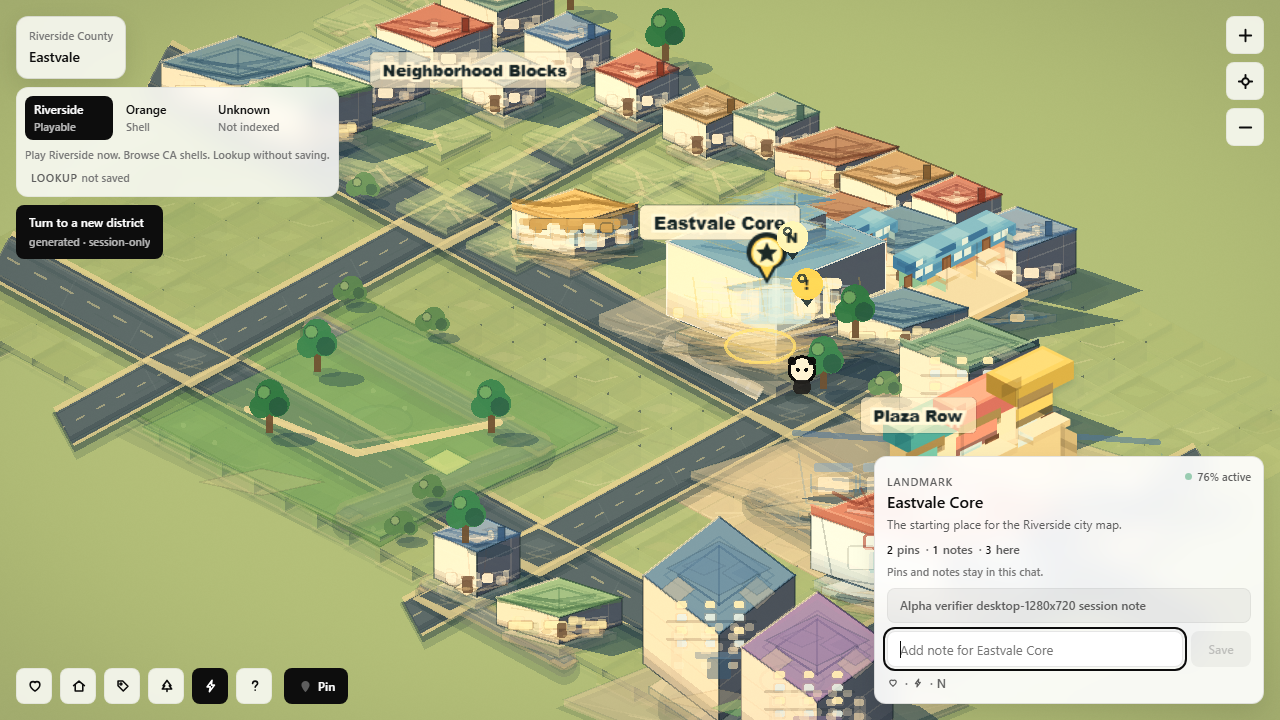
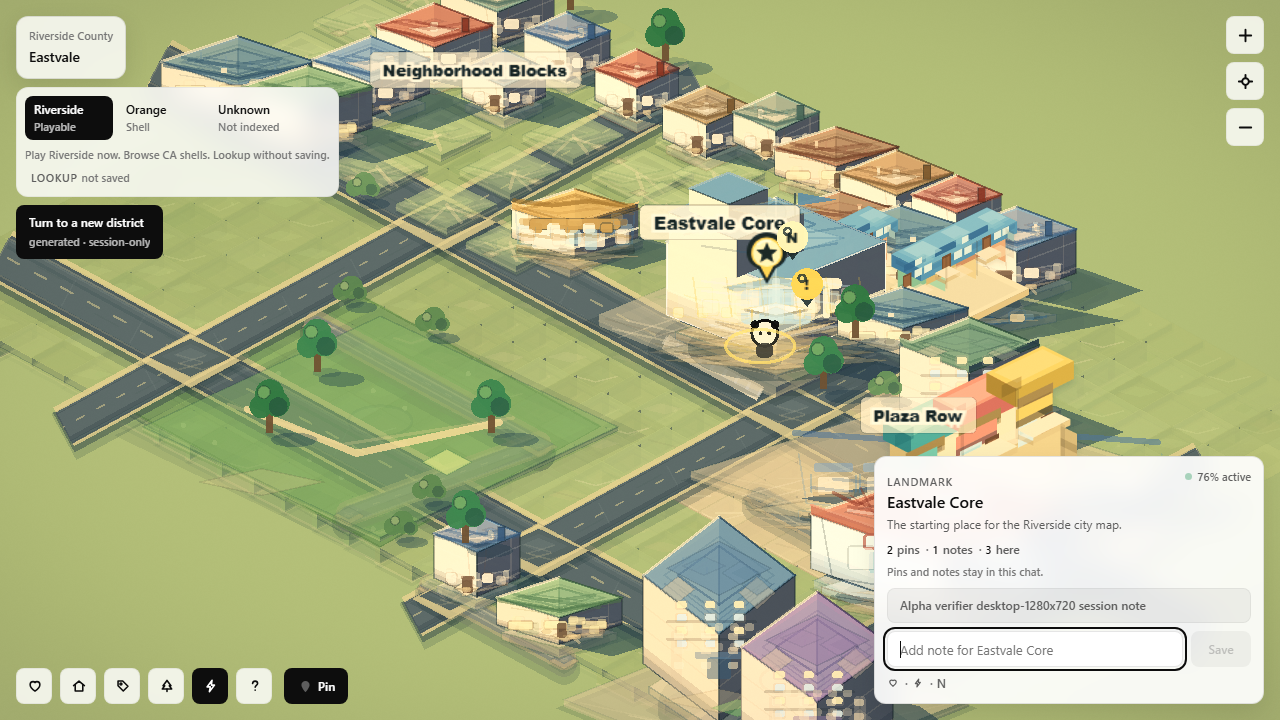
docs(0.53e): Entry 083 + STATE — hero silhouette finish run verified
Desktop 8/10, mobile 7.9/10 vs north star; all verifiers green (89/89 tests,
product-loop ok desktop+mobile, rc-split 0/0). Final light+dark screenshots at
desktop 1280x720 + mobile 390x844 in artifacts/0.53e-hero. Awaiting the human
gate for merge + redeploy.

diff --git a/docs/BUILD_LOG.md b/docs/BUILD_LOG.md
@@ -7870,3 +7870,69 @@ grade/contrast tuning pass with design sign-off, not more ground work.
 
 Skipped:
 No new deps, assets, props, or modules; no persistence/Stripe/OAuth/XP; no deploy.
+
+## Entry 083
+
+**0.53E "Hero Silhouette" — finish run (items A-finish → E), 2026-07-05, Fable.**
+Branch `fable/0.53e-hero-silhouette`, commits `9bf1a94..8bbaa5e` + docs. Executed
+in the isolated worktree per the launch doc; the stray agent holding :8787 was
+killed first. All work renderer-side in `web/src/CityWorldRenderer.tsx`, driven
+by the existing typed grammar — zero compiler/type/dep changes.
+
+- **A-finish — residential accents (`9bf1a94`).** `drawHomeRoofAccent`: every
+  gable/hip home gets a hash-keyed ridge line; a third get a chimney fleck, a
+  third a dormer (skipped on cottages, which have an authored one), a third stay
+  quiet. `drawHomeStoop`: warm entry pad + walk stub, mirrored per home. Wired
+  into BOTH sprite and shell paths — audit found only rowhomes/strip stores have
+  sprite art, so all pitched homes render via `drawHomeDetails` (shell).
+- **B — roof material separation (`e0a8b46`).** Clay tile = stronger tint +
+  eave-parallel courses (warm, coursed). Metal = cool panel field + crisper
+  standing seams + long specular (smooth, cool). Civic glass = wider glazed
+  field + mullion cross + bright specular. Flat parapet = recessed membrane
+  deck INSIDE the parapet line replacing the old bright cap ring (one surface,
+  not two decals).
+- **C — Eastvale Core landmark (`762450c`).** Root cause of the flat hero read:
+  FIVE legacy civic functions each floated a pale cap/lantern/crown/shoulder
+  decal over the same roof plane and averaged into fog. New
+  `hasHeroTieredCrown` gate (typed off `civicGeometry.focusTarget`) stands them
+  down when the tiered crown owns the roof. Crown is now two-step, front-offset,
+  sized to the open window between the label band and the roofline, with
+  saturated caps. Entry gains plinth apron + lit canopy slab + posts. The big
+  "milky box" west of the entry was diagnosed as the 0.52E civic plinth TERRAIN
+  massing (intentional contact grammar) — left intact.
+- **D — roof light finish (`8bbaa5e`).** `sunlitColor("top")` 1.18→1.22 with
+  warmer tint; every roof plane gains a whisper directional split (warm sun
+  half / cool fall half) + stronger sun rim and shade fall. Roof slice only —
+  NOT the 0.54E whole-canvas grade.
+
+Execution note for future passes: `pnpm dev` inlines `web/dist/component.js`
+into the preview HTML ONCE at process start (`builtWidgetCache`). Every visual
+iteration requires `build:web` AND a server restart — a reload is not enough.
+Screenshot A/B pixel-diffing caught this (item A initially "rendered" as a
+no-op because the served bundle was stale).
+
+Verification (all green):
+- `pnpm typecheck:starter`, `pnpm build:web`, `pnpm test:core` (89/89).
+- `verify-alpha-product-loop.mjs` → `ok: true` desktop 1280x720 + mobile
+  390x844, zero console errors, no horizontal overflow.
+- `verify-alpha-rc-split.mjs` → 0 blockers / 0 unknowns. `git diff --check` clean.
+- Screenshots (light+dark, desktop+mobile) in `artifacts/0.53e-hero/`
+  (`final-*.png`), plus per-item before/afters. Shells untouched/honest.
+- Payload: `component.js` 957.5kb raw (+5.1kb vs pass start — vector code only).
+
+Honest visual delta and self-rating vs `atlas-voxel-town-north-star.png`:
+Residential no longer reads cloned (mirror+jitter+tint from the first half of
+the pass, now finished with per-home roof accents + stoops); commerce/civic
+roofs are material-typed at a glance; Eastvale Core finally reads as a stepped
+landmark instead of a fogged box; roofs sit in the same key light as the walls.
+**Desktop 8/10. Mobile 7.9/10.** Named plateau on mobile: the place marker +
+label band sit ON the hero's crown zone (marker system anchors to the ground
+point), and at 390px the home accents drop below legibility — both are
+marker/UI-layer constraints, not building-draw constraints. Next funded moves:
+(1) the 0.54E design-gated grade/contrast pass (the golden-hour wash is now the
+single biggest gap to the north star), (2) a label/marker layout pass that
+lifts labels off landmark crowns.
+
+Skipped (invariants held): no props, no new deps/assets, no 3D/PBR, no compiler
+or type changes, no deploy, Anaheim/Ontario hidden, shells honest, palette
+registry + diagnostics + ~95 draw fns + 0.52E contact grammar intact.

diff --git a/STATE.md b/STATE.md
@@ -30,19 +30,23 @@ to origin — nothing was discarded.
 
 ## High Priority
 
-0. **IN FLIGHT: "The Hero Silhouette" pass (0.53E) — `fable/0.53e-hero-silhouette`.**
-   - **▶ TO LAUNCH FABLE:** `docs/design/fable-prompts/FABLE_LAUNCH_0.53E.md`
-     (copy-paste launch: model, worktree setup, prompt, state, verify, done).
-   - Spec + COMPLETION PLAN: `docs/design/fable-prompts/BUILDING_FIDELITY_SUPERPASS.md`.
-   - **Done so far (4 items, pushed @ `d18374f`, 89 tests green):** parapet caps,
-     storefront base, tiered anchor massing, item A residential variety (partial:
-     mirror + jitter + tint spread). Rating ~7.5/10.
-   - **Remaining (one clean Fable run):** A-finish (home roof accent + stoop),
-     B roof/material, C anchor-as-landmark, D roof light, E verify+mobile+/10. →≥8.
-   - **Execution fix:** run in an isolated `git worktree` — a concurrent process
-     on the main tree killed the dev server repeatedly and `git reset` the branch
-     once. One agent, one worktree.
-   - Ships as a post-launch update; production stays on `main` (live + current).
+0. **COMPLETE: "The Hero Silhouette" pass (0.53E) — `fable/0.53e-hero-silhouette`.**
+   - Finish run executed 2026-07-05 (Fable, isolated worktree). Items A-finish →
+     E all landed, bisectable: `9bf1a94` (home roof accents + stoops, sprite AND
+     shell paths), `e0a8b46` (roof material families one notch apart), `762450c`
+     (Eastvale Core tiered landmark + legacy roof-decal fog retired), `8bbaa5e`
+     (roof light finish). Full record: BUILD_LOG **Entry 083**.
+   - Verified: typecheck/build/test (89/89) green; product-loop `ok: true`
+     desktop+mobile, zero console errors; rc-split 0/0; screenshots (light+dark,
+     desktop 1280x720 + mobile 390x844) in `artifacts/0.53e-hero/final-*.png`.
+   - **Self-rating vs north star: desktop 8/10, mobile 7.9/10.** Named plateau:
+     marker/label band sits on the hero crown zone (marker system, not building
+     draw); golden-hour grade wash is now the biggest remaining gap (0.54E,
+     design-gated).
+   - **AWAITING HUMAN GATE:** review screenshots + /10, then merge to release
+     line + redeploy as a post-launch update. Production stays live on `main`
+     until then. Ops note: `pnpm dev` caches the inlined bundle at process start
+     — every visual iteration needs `build:web` + server RESTART.
 
 1. **"The Diorama Engine" pass: RUN (2026-07-04, `fable/0.52e-diorama-engine`).**
    - Spec: `docs/design/fable-prompts/DIORAMA_ENGINE_SUPERPASS.md`. Result:
